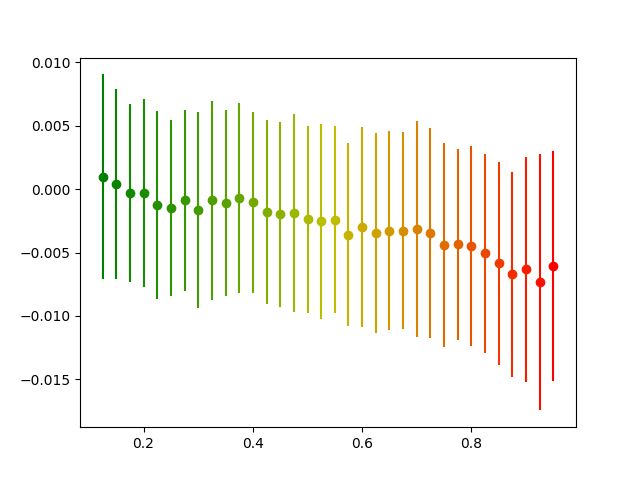
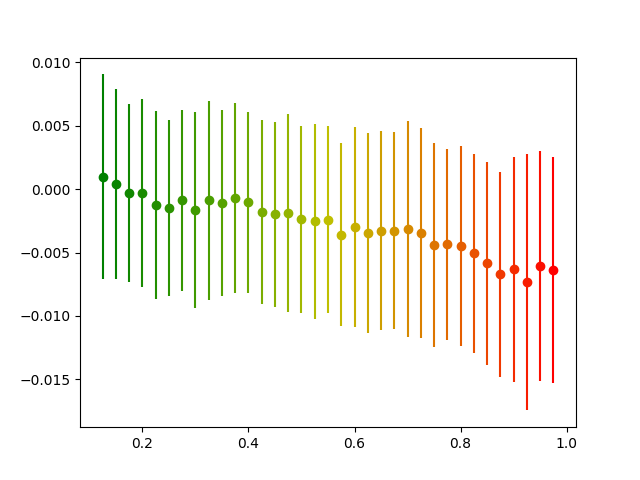
Server last res and lot of other stuff.

diff --git a/experiments/MNIST/unified_analysis/plot_generator.py b/experiments/MNIST/unified_analysis/plot_generator.py
@@ -15,7 +15,16 @@ from scipy import stats
 import draw_bipartite as db
 
 
-def regime(init, fin, mode, init_bias=None, fin_bias=None):        
+def regime(init, fin, mode, init_bias=None, fin_bias=None):
+    """
+    mode available: 
+        '': no transformation to the weights
+        'inh': keep only negative weights
+        'act': keep only positive
+        'abs': keep everything as absolute value
+        'tpos': shift every weight towards positives, so become all positve and keep them all
+        'tneg': shift every weight towards negative, so become all negative and keep them all
+    """      
     if mode == 'inh':
         init[init>=0.] = 0.
         fin[fin>=0.] = 0.
@@ -87,7 +96,7 @@ red = Color("green")
 colors = list(red.range_to(Color("red"),36))
 save_couples = []
 topology = 'cnn'
-mode = 'tneg'
+mode = ''
 w_t_ranger = np.arange(0.1, 0.975, 0.025)
 len_w_t_ranger = range(len(w_t_ranger))
 colors = list(red.range_to(Color("red"),len(w_t_ranger)))
@@ -231,6 +240,54 @@ plt.xlabel('Accuracy')
 plt.ylabel('Standard Deviation')
 plt.savefig('./images/{}/{}/{}-transition-std_regime-{}.png'.format(topology, mode, topology, mode))
 plt.show()
+
+# Std Input
+for acc, i in zip(w_t_ranger, len_w_t_ranger):
+    init_acc_le, fin_acc_ge = (np.around(acc,3), np.around(acc+0.025,3)), (np.around(acc+0.025,3), np.around(acc+0.05,3))
+    init_prefix, fin_prefix = 'fin', 'fin'
+    init = np.load('./results/{}_weights_npy/{}_weights_acc-{}-{}.npy'.format(topology, init_prefix, init_acc_le[0], init_acc_le[1]), allow_pickle=True)
+    fin = np.load('./results/{}_weights_npy/{}_weights_acc-{}-{}.npy'.format(topology, fin_prefix, fin_acc_ge[0], fin_acc_ge[1]), allow_pickle=True)        
+
+    init, fin = regime(init, fin, mode, init_bias=None, fin_bias=None)
+
+    s_in_i, _ = np.std(init, axis=1), np.std(init, axis=0) 
+    s_in_f, _ = np.std(fin, axis=1), np.std(fin, axis=0) 
+    s_i = s_in_i.flatten()
+    prec_i = s_in_i.flatten()
+    s_f = s_in_f.flatten()
+    plt.title('Transition Phase Std Input Layer')
+    plt.scatter(acc, s_i.flatten().mean(), color=str(colors[i]), alpha=1.0, label="Y_i first acc {0:.2f}".format(acc))
+    plt.scatter(acc+0.025, s_f.flatten().mean(), color=str(colors[i]), alpha=1.0, label="Y_i last acc {0:.2f}".format(acc))
+    #plt.legend(loc='best')
+plt.xlabel('Accuracy')
+plt.ylabel('Nodes Strength')
+plt.savefig('./images/{}/{}/{}-transition-std-input-layer_regime-{}.png'.format(topology, mode, topology, mode))
+plt.show()
+
+# Std output
+for acc, i in zip(w_t_ranger, len_w_t_ranger):
+    init_acc_le, fin_acc_ge = (np.around(acc,3), np.around(acc+0.025,3)), (np.around(acc+0.025,3), np.around(acc+0.05,3))
+    init_prefix, fin_prefix = 'fin', 'fin'
+    init = np.load('./results/{}_weights_npy/{}_weights_acc-{}-{}.npy'.format(topology, init_prefix, init_acc_le[0], init_acc_le[1]), allow_pickle=True)
+    fin = np.load('./results/{}_weights_npy/{}_weights_acc-{}-{}.npy'.format(topology, fin_prefix, fin_acc_ge[0], fin_acc_ge[1]), allow_pickle=True)        
+    init_bias = np.load('./results/{}_weights_npy/{}_bias_acc-{}-{}.npy'.format(topology, init_prefix, init_acc_le[0], init_acc_le[1]), allow_pickle=True)
+    fin_bias = np.load('./results/{}_weights_npy/{}_bias_acc-{}-{}.npy'.format(topology, fin_prefix, fin_acc_ge[0], fin_acc_ge[1]), allow_pickle=True)        
+
+    init, fin, init_bias, fin_bias = regime(init, fin, mode, init_bias=init_bias, fin_bias=fin_bias)
+    
+    _, s_out_i = np.std(init, axis=1), np.std(init, axis=0) 
+    _, s_out_f = np.std(fin, axis=1), np.std(fin, axis=0) 
+    s_i = s_out_i.flatten() + init_bias.flatten()
+    s_f = s_out_f.flatten() + fin_bias.flatten()
+    plt.title('Transition Phase Std Output Layer')
+    plt.errorbar(acc, s_i.flatten().mean(), color=str(colors[i]), alpha=1.0, label="Y_i first acc {0:.2f}".format(acc))
+    plt.errorbar(acc+0.025, s_f.flatten().mean(), color=str(colors[i]), alpha=1.0, label="Y_i last acc {0:.2f}".format(acc))
+    #plt.legend(loc='best')
+plt.xlabel('Accuracy')
+plt.ylabel('Nodes Strength')
+plt.savefig('./images/{}/{}/{}-transition-std-output-layer_regime-{}.png'.format(topology, mode, topology, mode))
+plt.show()
+
 
 ################################################
 ###### Differential Distributions #######
@@ -390,6 +447,69 @@ plt.ylabel('D(Y)')
 plt.savefig('./images/{}/{}/{}-histogram-node-disparity-out_regime-{}.png'.format(topology, mode, topology, mode))
 plt.show()
 
+# Std Input
+for acc, i in zip(arange_accuracy, range(num_colors)):
+    init_acc_le, fin_acc_ge = (np.around(acc,3), np.around(acc+0.025,3)), (np.around(acc+0.025,3), np.around(acc+0.05,3))
+    init_prefix, fin_prefix = 'fin', 'fin'
+    init = np.load('./results/{}_weights_npy/{}_weights_acc-{}-{}.npy'.format(topology, init_prefix, init_acc_le[0], init_acc_le[1]), allow_pickle=True)
+    fin = np.load('./results/{}_weights_npy/{}_weights_acc-{}-{}.npy'.format(topology, fin_prefix, fin_acc_ge[0], fin_acc_ge[1]), allow_pickle=True)        
+
+    init, fin = regime(init, fin, mode, init_bias=None, fin_bias=None)
+
+    s_in_i, _ = np.std(init, axis=1), np.std(init, axis=0) 
+    s_in_f, _ = np.std(fin, axis=1), np.std(fin, axis=0)
+    s_i = s_in_i.flatten()
+    s_f = s_in_f.flatten()
+
+    if mode == 'inh' or mode == 'act':
+        s_i = s_i[s_i>0.]
+        s_f = s_f[s_f>0.]
+    
+    plt.title('Histogram Std Input Layer Range {0:.2f}-{1:.2f} (accuracy step {2:.3f})'.format(arange_accuracy[0], 0.05+arange_accuracy[-1], step))
+    density_i = stats.kde.gaussian_kde(s_i.flatten())
+    density_f = stats.kde.gaussian_kde(s_f.flatten())
+    x_i = np.arange(s_i.min(), s_i.max(), .001)
+    x_f = np.arange(s_f.min(), s_f.max(), .001)
+    plt.plot(x_i, density_i(x_i), alpha=.5, color=str(colors_cumulative[i]))
+    plt.plot(x_f, density_f(x_f), alpha=.5, color=str(colors_cumulative[i]))
+    #plt.legend(loc='best')
+plt.xlabel('Node Strength')
+plt.ylabel('D(s)')
+plt.savefig('./images/{}/{}/{}-histogram-std-in_regime-{}.png'.format(topology, mode, topology, mode))
+plt.show()
+
+# Std Output
+for acc, i in zip(arange_accuracy, range(num_colors)):
+    init_acc_le, fin_acc_ge = (np.around(acc,3), np.around(acc+0.025,3)), (np.around(acc+0.025,3), np.around(acc+0.05,3))
+    init_prefix, fin_prefix = 'fin', 'fin'
+    init = np.load('./results/{}_weights_npy/{}_weights_acc-{}-{}.npy'.format(topology, init_prefix, init_acc_le[0], init_acc_le[1]), allow_pickle=True)
+    fin = np.load('./results/{}_weights_npy/{}_weights_acc-{}-{}.npy'.format(topology, fin_prefix, fin_acc_ge[0], fin_acc_ge[1]), allow_pickle=True)        
+    init_bias = np.load('./results/{}_weights_npy/{}_bias_acc-{}-{}.npy'.format(topology, init_prefix, init_acc_le[0], init_acc_le[1]), allow_pickle=True)
+    fin_bias = np.load('./results/{}_weights_npy/{}_bias_acc-{}-{}.npy'.format(topology, fin_prefix, fin_acc_ge[0], fin_acc_ge[1]), allow_pickle=True)        
+
+    init, fin, init_bias, fin_bias = regime(init, fin, mode, init_bias=init_bias, fin_bias=fin_bias)
+
+    _, s_out_i = np.std(init, axis=1), np.std(init, axis=0) 
+    _, s_out_f = np.std(fin, axis=1), np.std(fin, axis=0)
+    s_i = s_out_i.flatten() + init_bias.flatten()
+    s_f = s_out_f.flatten() + fin_bias.flatten()
+    
+    if mode == 'inh' or mode == 'act':
+        s_i = s_i[s_i>0.]
+        s_f = s_f[s_f>0.]
+        
+    plt.title('Histogram Std Output Layer Range {0:.2f}-{1:.2f} (accuracy step {2:.3f})'.format(arange_accuracy[0], 0.05+arange_accuracy[-1], step))
+    density_i = stats.kde.gaussian_kde(s_i.flatten())
+    density_f = stats.kde.gaussian_kde(s_f.flatten())
+    x_i = np.arange(s_i.min(), s_i.max(), .001)
+    x_f = np.arange(s_f.min(), s_f.max(), .001)
+    plt.plot(x_i, density_i(x_i), alpha=.5, color=str(colors_cumulative[i]))
+    plt.plot(x_f, density_f(x_f), alpha=.5, color=str(colors_cumulative[i]))
+    #plt.legend(loc='best')
+plt.xlabel('Node Strength')
+plt.ylabel('D(s)')
+plt.savefig('./images/{}/{}/{}-histogram-std-out_regime-{}.png'.format(topology, mode, topology, mode))
+plt.show()
 
 ################################################
 ###### Cumulative Distributions #######

diff --git a/experiments/MNIST/unified_analysis/server_plot_generator.py b/experiments/MNIST/unified_analysis/server_plot_generator.py
@@ -160,7 +160,44 @@ plt.savefig('./images/{}/histogram_total_node_disparity_output-layer-accuracy({}
 plt.show()
 plt.close()
 
-# ERRORBARS:
+# Std input layer
+print("\n[logger]: Node std input layer")
+for acc, i in zip(results_folders, range(num_colors)):
+    print("\t  Processing results {}".format(acc))
+    n_files = len(glob.glob("./results/{}/{}/*.npy".format(topology, acc)))
+    total_weights, total_bias = np.array([]), np.array([])
+    for file_ in glob.glob("./results/{}/{}/*.npy".format(topology, acc)):
+        w = np.load(file_, allow_pickle=True)
+        total_weights = np.append(w[-2].flatten(), total_weights)
+        total_bias = np.append(w[-1].flatten(), total_bias)
+    s_input_layer = total_weights.reshape(n_files, 32, 10).std(axis=-1)
+    density = stats.kde.gaussian_kde(s_input_layer.flatten())
+    x = np.arange(s_input_layer.min(), s_input_layer.max(), .001)
+    plt.plot(x, density(x), alpha=.5, color=str(colors[i]))
+plt.savefig('./images/{}/histogram_total_node_std_input-layer-accuracy({}-{}-step-{}).png'.format(topology,0.1, 1.0, step))
+plt.show()
+plt.close()
+
+# Std output layer
+print("\n[logger]: Node std output layer")
+for acc, i in zip(results_folders, range(num_colors)):
+    print("\t  Processing results {}".format(acc))
+    n_files = len(glob.glob("./results/{}/{}/*.npy".format(topology, acc)))
+    total_weights, total_bias = np.array([]), np.array([])
+    for file_ in glob.glob("./results/{}/{}/*.npy".format(topology, acc)):
+        w = np.load(file_, allow_pickle=True)
+        total_weights = np.append(w[-2].flatten(), total_weights)
+        total_bias = np.append(w[-1].flatten(), total_bias)
+    s_output_layer = total_weights.reshape(n_files, 32, 10).std(axis=1) + total_bias.reshape(n_files, 10,)
+    density = stats.kde.gaussian_kde(s_output_layer.flatten())
+    x = np.arange(s_output_layer.min(), s_output_layer.max(), .001)
+    plt.plot(x, density(x), alpha=.5, color=str(colors[i]))
+plt.savefig('./images/{}/histogram_total_node_std_output-layer-accuracy({}-{}-step-{}).png'.format(topology,0.1, 1.0, step))
+plt.show()
+plt.close()
+
+
+# ERRORBARS (SCATTER):
 # weights mean and variance
 print("\n[logger]: Errorbar mean-variance")
 for a, acc, i in zip(np.arange(0.125,1.25,0.025), results_folders, range(num_colors)):
@@ -252,6 +289,40 @@ for a, acc, i in zip(np.arange(0.125,1.25,0.025), results_folders, range(num_col
 plt.savefig('./images/{}/errorbar_node-disparity-accuracy({}-{}-step-{})-output.png'.format(topology,0.1, 1.0, step))
 plt.show()
 plt.close() 
+
+# std input
+print("\n[logger]: Scatter node std input")
+for a, acc, i in zip(np.arange(0.125,1.25,0.025), results_folders, range(num_colors)):
+    print("\t  Processing results {}".format(acc))
+    n_files = len(glob.glob("./results/{}/{}/*.npy".format(topology, acc)))
+    weights, bias = np.zeros((32,10)), np.zeros(10,)
+    for file_ in glob.glob("./results/{}/{}/*.npy".format(topology, acc)):
+        w = np.load(file_, allow_pickle=True)
+        weights += w[-2]
+    weights /= n_files
+    s_input_layer = weights.std(axis=1)
+    plt.scatter(a, s_input_layer.mean(), color=str(colors[i]), alpha=.5)
+plt.savefig('./images/{}/errorbar_node-std-accuracy({}-{}-step-{})-input.png'.format(topology,0.1, 1.0, step))
+plt.show()
+plt.close()   
+
+# std output
+print("\n[logger]: Scatter node std output")
+for a, acc, i in zip(np.arange(0.125,1.25,0.025), results_folders, range(num_colors)):
+    print("\t  Processing results {}".format(acc))
+    n_files = len(glob.glob("./results/{}/{}/*.npy".format(topology, acc)))
+    weights, bias = np.zeros((32,10)), np.zeros(10,)
+    for file_ in glob.glob("./results/{}/{}/*.npy".format(topology, acc)):
+        w = np.load(file_, allow_pickle=True)
+        weights += w[-2]
+        bias += w[-1]
+    weights /= n_files
+    bias /= n_files
+    s_output_layer = weights.std(axis=0) + bias
+    plt.scatter(a, s_output_layer.mean(), color=str(colors[i]), alpha=.5)
+plt.savefig('./images/{}/errorbar_node-std-accuracy({}-{}-step-{})-output.png'.format(topology,0.1, 1.0, step))
+plt.show()
+plt.close()
     
 
 """
